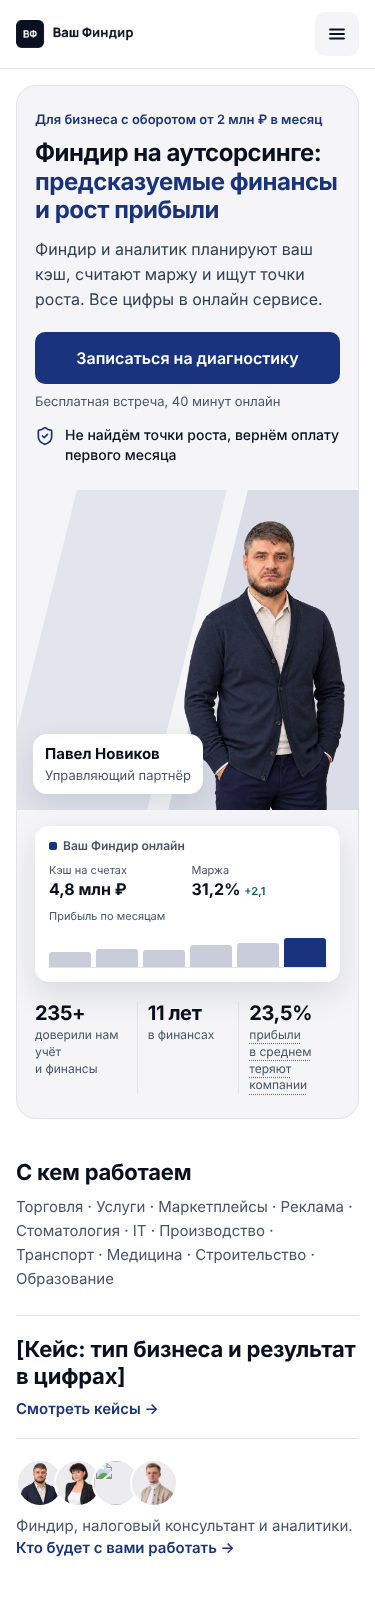
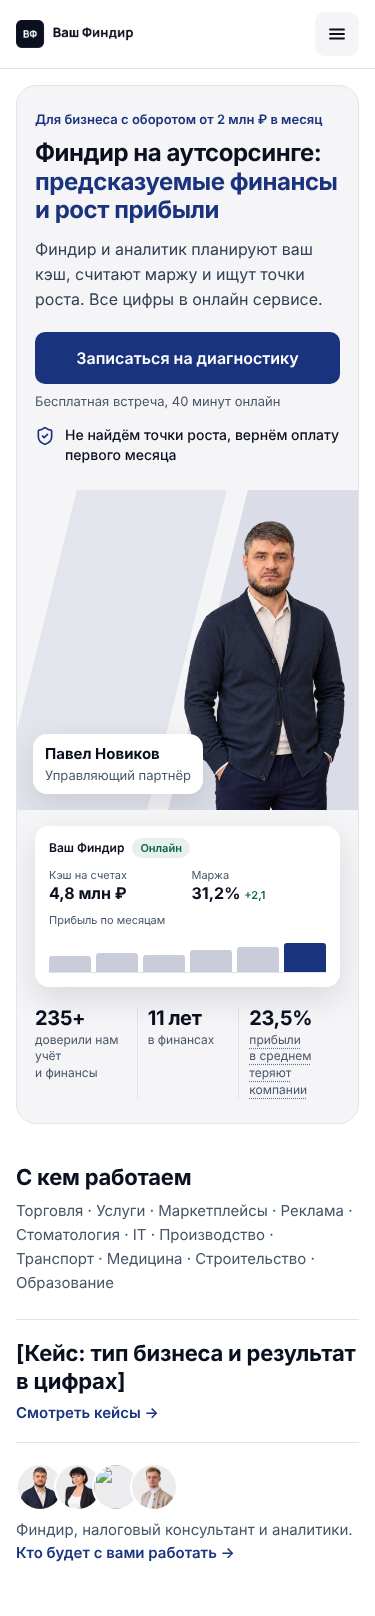
docs: бейдж «Онлайн» в карточке сервиса hero
Claude-Session: https://claude.ai/code/session_01NoXPJwrPUaAMMK8kRLL3oA

diff --git a/docs/plan/hero-offer/HeroOffer.dc.html b/docs/plan/hero-offer/HeroOffer.dc.html
@@ -141,7 +141,7 @@ main#top{padding:16px 16px 32px!important}
 </div>
 
 <div class="ho-svc" role="img" aria-label="Пример экрана онлайн сервиса, демонстрационные данные" style="position: absolute; z-index: 3; right: 332px; top: 40px; width: 224px; box-sizing: border-box; padding: 12px 14px 14px; border-radius: 14px; background: #FFFFFF; box-shadow: 0 12px 32px rgba(15,23,42,0.12); display: flex; flex-direction: column; gap: 10px">
-<span style="display: flex; align-items: center; gap: 6px; font-size: 12px; line-height: 1.3; font-weight: 600; color: #475569"><span aria-hidden="true" style="width: 8px; height: 8px; border-radius: 2px; background: {{accent}}"></span>Ваш Финдир онлайн</span>
+<span style="display: flex; align-items: center; gap: 8px; font-size: 12px; line-height: 1.3; font-weight: 600; color: #0B1020">Ваш Финдир<span style="display: inline-flex; align-items: center; min-height: 20px; padding: 0 8px; border-radius: 9999px; background: #E7F0EC; color: #0B6644; font-size: 11px; font-weight: 600">Онлайн</span></span>
 <span style="display: grid; grid-template-columns: 1fr 1fr; gap: 8px"><span style="display: flex; flex-direction: column; gap: 2px"><span style="font-size: 11px; line-height: 1.3; color: #475569">Кэш на&nbsp;счетах</span><span style="font-size: 16px; line-height: 1.2; font-weight: 700; color: #0B1020; white-space: nowrap">4,8&nbsp;млн&nbsp;₽</span></span><span style="display: flex; flex-direction: column; gap: 2px"><span style="font-size: 11px; line-height: 1.3; color: #475569">Маржа</span><span style="font-size: 16px; line-height: 1.2; font-weight: 700; color: #0B1020; white-space: nowrap">31,2% <span style="font-size: 11px; font-weight: 600; color: #0B6644">+2,1</span></span></span></span>
 <span style="display: flex; flex-direction: column; gap: 4px"><span style="font-size: 11px; line-height: 1.3; color: #475569">Прибыль по&nbsp;месяцам</span><span aria-hidden="true" style="display: flex; align-items: flex-end; gap: 5px; height: 40px; border-bottom: 1px solid #E3E4E8"><span style="flex: 1; height: 38%; border-radius: 3px 3px 0 0; background: #C9CDDA"></span><span style="flex: 1; height: 46%; border-radius: 3px 3px 0 0; background: #C9CDDA"></span><span style="flex: 1; height: 42%; border-radius: 3px 3px 0 0; background: #C9CDDA"></span><span style="flex: 1; height: 55%; border-radius: 3px 3px 0 0; background: #C9CDDA"></span><span style="flex: 1; height: 61%; border-radius: 3px 3px 0 0; background: #C9CDDA"></span><span style="flex: 1; height: 72%; border-radius: 3px 3px 0 0; background: {{accent}}"></span></span></span>
 </div>

diff --git a/docs/plan/hero-offer/HeroOffer375.dc.html b/docs/plan/hero-offer/HeroOffer375.dc.html
@@ -141,7 +141,7 @@ main#top{padding:16px 16px 32px!important}
 </div>
 
 <div class="ho-svc" role="img" aria-label="Пример экрана онлайн сервиса, демонстрационные данные" style="position: absolute; z-index: 3; right: 332px; top: 40px; width: 224px; box-sizing: border-box; padding: 12px 14px 14px; border-radius: 14px; background: #FFFFFF; box-shadow: 0 12px 32px rgba(15,23,42,0.12); display: flex; flex-direction: column; gap: 10px">
-<span style="display: flex; align-items: center; gap: 6px; font-size: 12px; line-height: 1.3; font-weight: 600; color: #475569"><span aria-hidden="true" style="width: 8px; height: 8px; border-radius: 2px; background: {{accent}}"></span>Ваш Финдир онлайн</span>
+<span style="display: flex; align-items: center; gap: 8px; font-size: 12px; line-height: 1.3; font-weight: 600; color: #0B1020">Ваш Финдир<span style="display: inline-flex; align-items: center; min-height: 20px; padding: 0 8px; border-radius: 9999px; background: #E7F0EC; color: #0B6644; font-size: 11px; font-weight: 600">Онлайн</span></span>
 <span style="display: grid; grid-template-columns: 1fr 1fr; gap: 8px"><span style="display: flex; flex-direction: column; gap: 2px"><span style="font-size: 11px; line-height: 1.3; color: #475569">Кэш на&nbsp;счетах</span><span style="font-size: 16px; line-height: 1.2; font-weight: 700; color: #0B1020; white-space: nowrap">4,8&nbsp;млн&nbsp;₽</span></span><span style="display: flex; flex-direction: column; gap: 2px"><span style="font-size: 11px; line-height: 1.3; color: #475569">Маржа</span><span style="font-size: 16px; line-height: 1.2; font-weight: 700; color: #0B1020; white-space: nowrap">31,2% <span style="font-size: 11px; font-weight: 600; color: #0B6644">+2,1</span></span></span></span>
 <span style="display: flex; flex-direction: column; gap: 4px"><span style="font-size: 11px; line-height: 1.3; color: #475569">Прибыль по&nbsp;месяцам</span><span aria-hidden="true" style="display: flex; align-items: flex-end; gap: 5px; height: 40px; border-bottom: 1px solid #E3E4E8"><span style="flex: 1; height: 38%; border-radius: 3px 3px 0 0; background: #C9CDDA"></span><span style="flex: 1; height: 46%; border-radius: 3px 3px 0 0; background: #C9CDDA"></span><span style="flex: 1; height: 42%; border-radius: 3px 3px 0 0; background: #C9CDDA"></span><span style="flex: 1; height: 55%; border-radius: 3px 3px 0 0; background: #C9CDDA"></span><span style="flex: 1; height: 61%; border-radius: 3px 3px 0 0; background: #C9CDDA"></span><span style="flex: 1; height: 72%; border-radius: 3px 3px 0 0; background: {{accent}}"></span></span></span>
 </div>

diff --git a/docs/plan/hero-offer/HeroOffer768.dc.html b/docs/plan/hero-offer/HeroOffer768.dc.html
@@ -141,7 +141,7 @@ main#top{padding:16px 16px 32px!important}
 </div>
 
 <div class="ho-svc" role="img" aria-label="Пример экрана онлайн сервиса, демонстрационные данные" style="position: absolute; z-index: 3; right: 332px; top: 40px; width: 224px; box-sizing: border-box; padding: 12px 14px 14px; border-radius: 14px; background: #FFFFFF; box-shadow: 0 12px 32px rgba(15,23,42,0.12); display: flex; flex-direction: column; gap: 10px">
-<span style="display: flex; align-items: center; gap: 6px; font-size: 12px; line-height: 1.3; font-weight: 600; color: #475569"><span aria-hidden="true" style="width: 8px; height: 8px; border-radius: 2px; background: {{accent}}"></span>Ваш Финдир онлайн</span>
+<span style="display: flex; align-items: center; gap: 8px; font-size: 12px; line-height: 1.3; font-weight: 600; color: #0B1020">Ваш Финдир<span style="display: inline-flex; align-items: center; min-height: 20px; padding: 0 8px; border-radius: 9999px; background: #E7F0EC; color: #0B6644; font-size: 11px; font-weight: 600">Онлайн</span></span>
 <span style="display: grid; grid-template-columns: 1fr 1fr; gap: 8px"><span style="display: flex; flex-direction: column; gap: 2px"><span style="font-size: 11px; line-height: 1.3; color: #475569">Кэш на&nbsp;счетах</span><span style="font-size: 16px; line-height: 1.2; font-weight: 700; color: #0B1020; white-space: nowrap">4,8&nbsp;млн&nbsp;₽</span></span><span style="display: flex; flex-direction: column; gap: 2px"><span style="font-size: 11px; line-height: 1.3; color: #475569">Маржа</span><span style="font-size: 16px; line-height: 1.2; font-weight: 700; color: #0B1020; white-space: nowrap">31,2% <span style="font-size: 11px; font-weight: 600; color: #0B6644">+2,1</span></span></span></span>
 <span style="display: flex; flex-direction: column; gap: 4px"><span style="font-size: 11px; line-height: 1.3; color: #475569">Прибыль по&nbsp;месяцам</span><span aria-hidden="true" style="display: flex; align-items: flex-end; gap: 5px; height: 40px; border-bottom: 1px solid #E3E4E8"><span style="flex: 1; height: 38%; border-radius: 3px 3px 0 0; background: #C9CDDA"></span><span style="flex: 1; height: 46%; border-radius: 3px 3px 0 0; background: #C9CDDA"></span><span style="flex: 1; height: 42%; border-radius: 3px 3px 0 0; background: #C9CDDA"></span><span style="flex: 1; height: 55%; border-radius: 3px 3px 0 0; background: #C9CDDA"></span><span style="flex: 1; height: 61%; border-radius: 3px 3px 0 0; background: #C9CDDA"></span><span style="flex: 1; height: 72%; border-radius: 3px 3px 0 0; background: {{accent}}"></span></span></span>
 </div>
